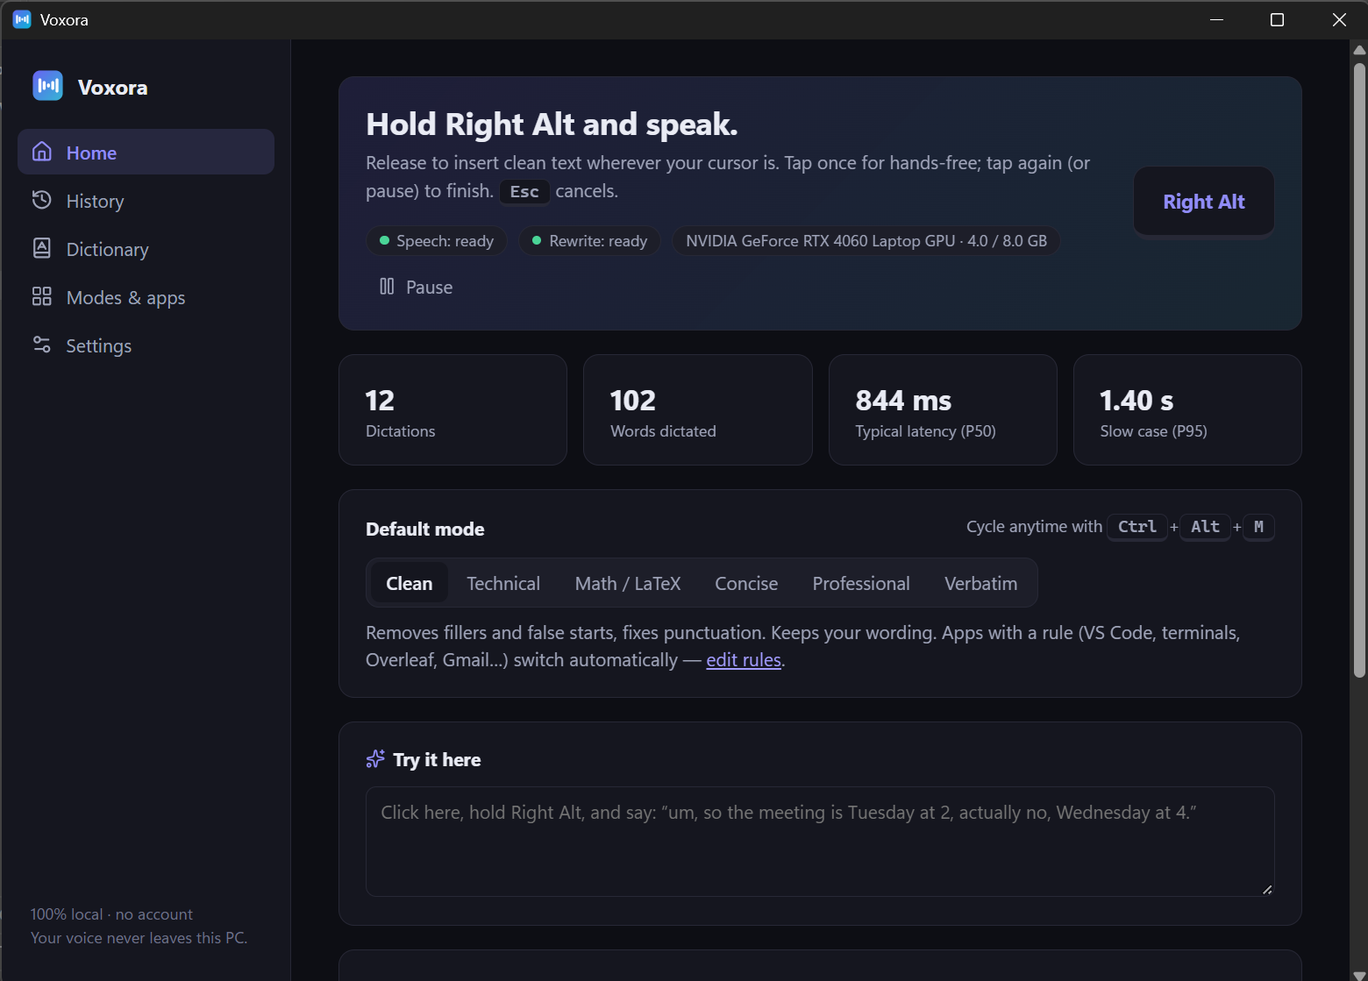
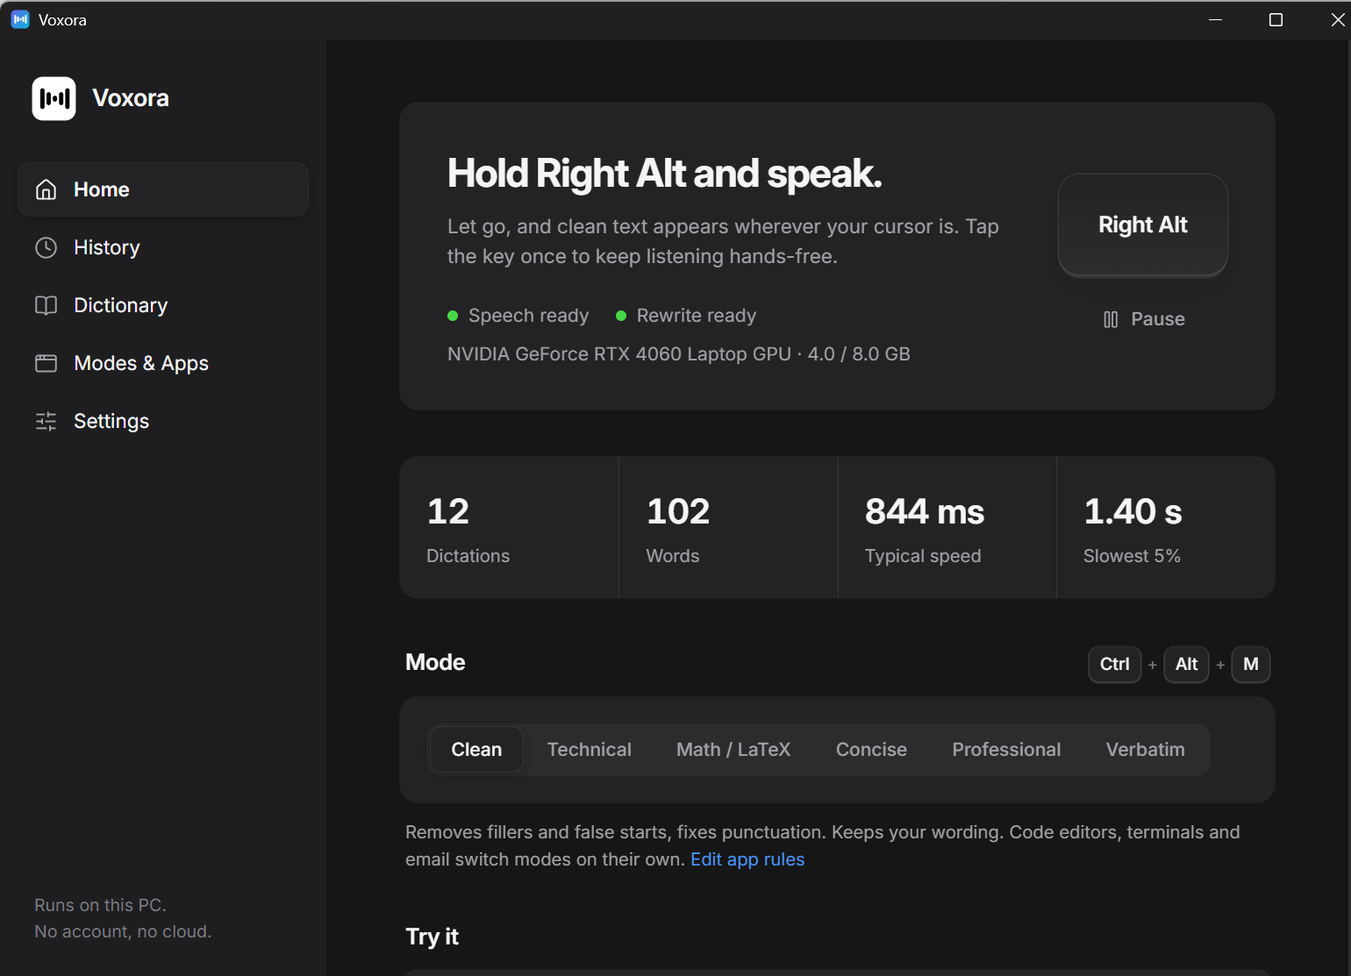
docs: v0.2 README, macOS install and status, golden benchmarks; release workflow
- README: macOS (beta) install with Gatekeeper and Accessibility steps,
  platform shortcuts, golden-set results, honest verified/unverified split
- ARCHITECTURE platform table, DECISIONS D12-D13, macOS troubleshooting
- Release workflow builds Windows and macOS installers into a draft release
- New screenshots and social preview from the real app
- Bundle id dev.voxora.desktop; version 0.2.0

diff --git a/README.md b/README.md
@@ -1,22 +1,22 @@
 <p align="center">
-  <img src="assets/logo.svg" width="88" alt="Voxora logo: five white bars forming a V-shaped waveform on an indigo-to-cyan square">
+  <img src="assets/logo.svg" width="96" alt="Voxora logo: five black bars forming a symmetric waveform on a white rounded square">
 </p>
 
 <h1 align="center">Voxora</h1>
 
 <p align="center">
-  Hold a key, speak, release: clean text appears in any Windows app.<br>
-  Speech recognition and AI cleanup run on your own GPU. No account, no subscription, no audio leaves the PC.
+  Hold a key, speak, let go. Clean text appears in whatever app you're typing in.<br>
+  Speech recognition and AI cleanup run on your own computer. No account, no subscription, no audio leaves your machine.
 </p>
 
 <p align="center">
   <a href="https://github.com/ParshvCrafts/Voxora/actions/workflows/ci.yml"><img src="https://github.com/ParshvCrafts/Voxora/actions/workflows/ci.yml/badge.svg" alt="CI status"></a>
   <a href="LICENSE"><img src="https://img.shields.io/badge/license-MIT-blue" alt="MIT license"></a>
-  <img src="https://img.shields.io/badge/platform-Windows%2010%2F11-0078D4" alt="Windows 10/11">
+  <img src="https://img.shields.io/badge/platform-Windows%20%7C%20macOS%20beta-555" alt="Windows and macOS (beta)">
 </p>
 
 <p align="center">
-  <img src="docs/assets/overlay.png" width="420" alt="The Voxora pill at the bottom of the screen while listening: a pulsing dot, a live 14-bar audio meter, and a TECH mode badge">
+  <img src="docs/assets/overlay.png" width="420" alt="The Voxora HUD while listening: a black capsule with a red recording dot, white live audio bars, and the active mode, Technical">
 </p>
 
 Voxora is a local-first alternative to cloud dictation tools like Wispr Flow. It is built for
@@ -27,137 +27,175 @@ into `\sum_{i=1}^{n} x_i`.
 
 ## What it does
 
-- **One key, two gestures.** Hold Right Alt to talk; tap it for hands-free mode, which stops
-  when you pause. `Esc` cancels. The floating pill never steals focus from your editor.
-- **Context-aware modes.** Clean, Technical, Math/LaTeX, Concise, Professional, Verbatim. The
-  mode follows the foreground app (VS Code/Cursor → Technical, Overleaf → Math, Gmail →
-  Professional) using only the process name and window title.
-- **Spoken math and code.** A deterministic parser renders math as Unicode (`θᵀx + b = 0`) or
-  LaTeX (`\frac{df}{dx}`, `P(Y = 1 \mid X)`); "camel case get user by id" becomes `getUserById`.
-- **AI cleanup that cannot change your facts.** A local LLM removes fillers and resolves
-  self-corrections, then an invariant guard rejects any rewrite that adds or drops a number
-  or identifier, introduces a name you never said, or answers your question instead of
-  transcribing it. Rejected rewrites
-  fall back to the rule-based text.
-- **Nothing gets lost.** Every transcript is committed to SQLite before it is pasted. Your
-  clipboard (text or image) is restored after the paste. Admin windows that block synthetic
-  input get the text on the clipboard with a notice instead of a silent failure.
-- **Personal dictionary.** Terms bias Whisper toward your spellings and fix casing afterwards
-  ("lang graph" → LangGraph); replacements double as snippets.
+- **One key, two gestures.** Hold Right Alt (Right Option on a Mac) to talk; tap it to keep
+  listening hands-free until you pause. `Esc` cancels. The floating HUD never takes focus away
+  from the app you're typing in.
+- **Modes that follow the app.** Clean, Technical, Math/LaTeX, Concise, Professional,
+  Verbatim. VS Code and Cursor switch to Technical, Overleaf to Math, Mail and Outlook to
+  Professional, using only the app's name (and, on Windows, its window title).
+- **Spoken code, paths and math.** "dash dash maxfail equals 1" becomes `--maxfail=1`;
+  "https colon slash slash api dot example dot com" becomes a URL; "O of V plus E log V" becomes
+  `O(V + E log V)`; spoken math renders as Unicode (`θᵀx + b ≥ 0`) or LaTeX
+  (`-\frac{1}{N} \sum_{i=1}^{N} y_i`).
+- **Spoken editing.** "scratch that", "quote ... end quote", "new line", a final "period", and
+  "first, ... second, ..." turning into a numbered list.
+- **AI cleanup that can't change your facts.** A local LLM removes fillers and resolves
+  self-corrections, then an invariant guard rejects any rewrite that adds or drops a number or
+  identifier, introduces a name you never said, or answers your question instead of
+  transcribing it. Rejected rewrites fall back to the rule-based text.
+- **Nothing gets lost.** Every transcript is saved to SQLite before it is pasted. Your clipboard
+  (text or image) comes back after the paste. If the target blocks synthetic keystrokes (admin
+  windows on Windows, Secure Keyboard Entry on macOS), the text waits on the clipboard and the
+  HUD tells you.
+- **Your vocabulary.** Words you add steer Whisper toward your spelling and fix casing afterwards
+  ("lang graph" becomes LangGraph); phrase shortcuts expand into longer text.
 
 <p align="center">
-  <img src="docs/assets/home.png" width="760" alt="Voxora settings window, Home page: hotkey hint, engine status pills showing Speech ready and Rewrite ready with the GPU name, usage stats, and the default-mode selector">
+  <img src="docs/assets/home.png" width="760" alt="Voxora's main window in dark mode: a sidebar with Home, History, Dictionary, Modes and Apps, Settings; the Home page reads Hold Right Alt and speak, shows Speech ready and Rewrite ready with the GPU and its memory, usage stats, and a mode selector">
 </p>
 
 ## How it works
 
 ```mermaid
 flowchart LR
-  K[Key hook] --> M[Mic + VAD]
-  M --> W[whisper-server<br/>large-v3-turbo, CUDA]
+  K[Key listener] --> M[Mic + VAD]
+  M --> W[whisper-server<br/>large-v3-turbo<br/>CUDA or Metal]
   W --> S[(SQLite<br/>saved first)]
-  S --> N[Rules: fillers, dictionary,<br/>math, identifiers]
+  S --> N[Rules: fillers, dictionary,<br/>paths, math, identifiers]
   N --> L[llama-server<br/>Qwen3.5-4B]
   L --> G{Invariant guard}
   G -- pass --> P[Paste + restore clipboard]
   G -- fail / timeout --> P2[Paste rule-based text]
 ```
 
-- **Rust + Tauri 2** shell (4.5 MB installer, ~55 MB RAM) with a Win32 low-level keyboard hook,
-  WASAPI capture via `cpal`, the pure-Rust [earshot](https://crates.io/crates/earshot) VAD for
-  live endpointing, and clipboard/`SendInput` injection.
-- **Inference runs in official prebuilt CUDA servers** from whisper.cpp and llama.cpp, started
-  and supervised by Voxora on `127.0.0.1`. No CUDA toolkit needed to build, a crash in inference
-  cannot take down the hotkey process, and any OpenAI-compatible server (Ollama, LM Studio) can
-  replace the built-in rewrite engine.
-- **The LLM is optional by design.** Short, fluent utterances skip it (the rules already produce
-  final text in under 1 ms); a timeout or guard violation also falls back to the rules.
-- **Measured, not assumed.** Every default (model choice, vocabulary prompt, fast path) has a
-  benchmark behind it in the decision log, including ideas that were tried and dropped.
+- **Rust + Tauri 2.** One engine, with four small OS modules swapped per platform: keyboard
+  listener (Win32 low-level hook / macOS CGEventTap), paste (SendInput / CGEvent with
+  NSPasteboard), foreground app, and the non-activating HUD window. Audio goes through `cpal`
+  (WASAPI / CoreAudio), with the pure-Rust [earshot](https://crates.io/crates/earshot) VAD.
+- **Inference runs in whisper.cpp and llama.cpp servers** that Voxora starts and supervises on
+  `127.0.0.1`. Windows uses the official CUDA builds. On macOS, llama.cpp's official Metal build
+  is downloaded, and `whisper-server` (which has no official macOS binary) is compiled from a
+  pinned tag in CI and shipped inside `Voxora.app`. Any OpenAI-compatible server (Ollama, LM
+  Studio) can replace the built-in rewrite engine.
+- **The LLM is optional by design.** Short, fluent speech skips it (the rules finish in under a
+  millisecond), and a timeout or guard rejection also falls back to the rules. Decoding is greedy,
+  so the same words give the same text every time.
+- **Measured, not assumed.** Every default has a benchmark behind it in the
+  [decision log](docs/DECISIONS.md), including ideas that were tried and dropped.
 
-Deeper dive: [docs/ARCHITECTURE.md](docs/ARCHITECTURE.md) · decision log with evidence:
-[docs/DECISIONS.md](docs/DECISIONS.md).
+More: [docs/ARCHITECTURE.md](docs/ARCHITECTURE.md).
 
 ## Results
 
 Measured on a Lenovo Legion 5i (i9-14900HX, RTX 4060 Laptop 8 GB, Windows 11). Full tables and
-how to reproduce: [docs/BENCHMARKS.md](docs/BENCHMARKS.md).
+how to reproduce them: [docs/BENCHMARKS.md](docs/BENCHMARKS.md).
 
 | | Result |
 |---|---|
-| Quality benchmark (30 cases: fillers, self-corrections, ML jargon, code, math, prompt injection; synthesized speech) | **29/30 pass** |
-| Speech recognition, warm (whisper large-v3-turbo Q8) | P50 166 ms, P95 245 ms |
-| AI rewrite when used (Qwen3.5-4B Q4_K_M) | P50 357 ms, P95 929 ms |
-| End-to-end, key release → text in app (real app, release build, 7 dictations) | 0.45–0.77 s rule-based, 0.85–1.24 s with AI rewrite |
-| 5 s of silence | nothing inserted |
+| Core benchmark (30 cases: fillers, self-corrections, ML jargon, code, math, prompt injection), synthesized speech | **29/30 pass** |
+| Golden set, 20 hard edge cases (URLs, paths, nested LaTeX, quotes, lists, Big-O, accented names, noise), Voxora's pipeline on reference text | **19/19 key facts, 16/19 exact** |
+| Same golden set through Whisper with robotic Windows TTS voices | 11/20 key facts (misses are mishearings like "Reedy's cache" for Redis) |
+| Speech recognition, warm (whisper large-v3-turbo Q8) | P50 ~200 ms, P95 ~260 ms |
+| AI rewrite when used (Qwen3.5-4B Q4_K_M) | P50 ~360 ms, P95 ~840 ms |
+| End-to-end, key release to text in the app (real app, release build) | 0.45 to 0.77 s rule-based, 0.85 to 1.24 s with AI rewrite |
+| Silence or keyboard noise only | nothing inserted |
 | GPU memory, both models loaded | 4.3 GB of 8 GB |
 
-## Quick start
+## Install
+
+### Windows 10/11
 
 1. Download `Voxora_x.y.z_x64-setup.exe` from [Releases](https://github.com/ParshvCrafts/Voxora/releases) and run it.
+   SmartScreen may warn because the installer is unsigned: click **More info**, then **Run anyway**.
 2. On first launch click **Download and start**. Voxora fetches pinned, SHA-256-verified builds
-   of whisper.cpp, llama.cpp and the models (~4.7 GB download with an NVIDIA GPU).
-3. Click into any text field, hold **Right Alt**, speak, release.
+   of whisper.cpp, llama.cpp and the models (about 4.7 GB with an NVIDIA GPU).
+3. Click into any text field, hold **Right Alt**, speak, let go.
 
-Requirements: Windows 10/11 x64. NVIDIA GPU with about 5 GB of free VRAM recommended (both models use 4.3 GB); without one Voxora
-uses CPU builds (slower) and you can turn off the AI rewrite for instant rule-based cleanup.
+An NVIDIA GPU with about 5 GB free VRAM is recommended. Without one, Voxora uses CPU builds and a
+smaller rewrite model, and you can turn the AI rewrite off for instant rule-based cleanup.
 
-| Shortcut | Action |
-|---|---|
-| Hold Right Alt | Push-to-talk |
-| Tap Right Alt | Hands-free on; tap again or pause to finish |
-| Esc (while recording) | Cancel |
-| Ctrl+Alt+M | Cycle mode |
-| Ctrl+Alt+V | Paste last dictation again |
+### macOS 13.3+ on Apple silicon (beta)
+
+1. Download `Voxora_x.y.z_aarch64.dmg` from [Releases](https://github.com/ParshvCrafts/Voxora/releases)
+   and drag Voxora to Applications.
+2. Open it. macOS will refuse at first because the app is not notarized (that needs a paid Apple
+   account). Go to **System Settings > Privacy & Security**, scroll down, and click
+   **Open Anyway**. (Or run `xattr -dr com.apple.quarantine /Applications/Voxora.app` once.)
+3. Voxora lives in the menu bar. The Home page shows **One permission to go**: click
+   **Open System Settings** and turn Voxora on under **Accessibility**. That single permission
+   lets it hear the dictation key and press Command+V for you. Allow the microphone when asked.
+4. Click **Download and start** (about 3.6 GB), then hold **Right Option**, speak, let go.
+
+### Shortcuts
+
+| Windows | Mac | Action |
+|---|---|---|
+| Hold Right Alt | Hold Right Option | Dictate while held |
+| Tap Right Alt | Tap Right Option | Hands-free; tap again or pause to finish |
+| Esc | Esc | Cancel while listening |
+| Ctrl+Alt+M | Control+Option+M | Switch mode |
+| Ctrl+Alt+V | Control+Option+V | Paste the last dictation again |
+| Ctrl+Z | Command+Z | Undo an insertion (in the app you dictated into) |
 
 ### Build from source
 
-```powershell
-# Rust (MSVC), Node 22+, pnpm
+```bash
+# Rust, Node 22+, pnpm
 pnpm install
 pnpm tauri dev          # run
-pnpm tauri build        # NSIS + MSI installers in target/release/bundle
-cargo test --workspace  # unit tests
+pnpm tauri build        # Windows: NSIS + MSI. macOS: .app + .dmg (see the macos job in ci.yml for whisper-server)
+cargo test --workspace
 ```
 
-The models and runtimes are not in the repo; the app downloads them on first run into
-`%LOCALAPPDATA%\Voxora`.
+Models and runtimes are not in the repo; the app downloads them on first run into
+`%LOCALAPPDATA%\Voxora` (Windows) or `~/Library/Application Support/Voxora` (macOS).
 
 ## Status
 
-Verified on the hardware above:
-- 71 unit tests (text pipeline, math parser, guard, storage, gesture timing, audio resampling,
-  WAV I/O, zip safety) plus a live-clipboard round-trip test.
-- `scripts/e2e.ps1` drives the real app (run against the release build) through a virtual audio cable: push-to-talk,
-  hands-free auto-stop, Esc cancel, silence rejection, self-correction, spoken math, and
-  clipboard restoration all pass.
-- Kill-on-close job object: force-killing Voxora leaves no inference server running.
+Verified:
+- 79 unit tests on Windows, and the same core suite plus macOS key-map tests on macOS (text
+  pipeline, golden-case rules, math parser, guard, storage, gesture timing, resampling, archive
+  safety), plus a live clipboard round-trip test on Windows.
+- Windows, on the hardware above: `scripts/e2e.ps1` drives the real app through a virtual audio
+  cable (push-to-talk, hands-free auto-stop, Esc cancel, silence rejection, self-correction,
+  spoken math, clipboard restore), last run on v0.1; v0.2 was re-checked with unit tests, both
+  benchmarks and the real app's screenshots. A force-killed Voxora leaves no inference server
+  running.
+- macOS, on GitHub's Apple silicon runners for every push: clippy and tests on the macOS code,
+  `.app` and `.dmg` bundling, the bundled whisper-server transcribing a spoken sentence
+  correctly, the pinned llama.cpp runtime passing its checksum and starting, and the app
+  launching and installing its keyboard listener.
 
 Not yet verified:
-- Elevated (admin) target windows were handled by design and code review, not by an automated test.
-- Benchmarks use synthesized voices (Windows SAPI), which are cleaner than a real microphone;
-  treat the WER as a lower bound.
-- Only tested on one machine; AMD/Intel GPUs fall back to CPU builds.
-- Installer is unsigned, so SmartScreen will warn on first run.
+- **macOS on a real Mac.** No Mac was available while building this. Holding the key, the HUD,
+  pasting and clipboard restore follow Apple's documented APIs, but nobody has used them by hand
+  yet. If you try it, please [open an issue](https://github.com/ParshvCrafts/Voxora/issues)
+  with what worked.
+- Elevated (admin) windows on Windows are handled by design and code review, not by an
+  automated test.
+- Benchmarks use synthesized voices, which are cleaner and stranger than a real microphone.
+- Tested on one Windows machine; AMD and Intel GPUs fall back to CPU builds.
 
 ## Project layout
 
 ```
 crates/voxora-core   text pipeline, math parser, guard, storage, engine clients, bench_eval
-src-tauri            Windows app: hook, audio, injection, orchestrator, tray
-src                  React UI: settings/history window and the overlay pill
-bench                benchmark cases and results
-scripts              benchmark audio generation, end-to-end test
-docs                 architecture, decisions, benchmarks, troubleshooting, original blueprint
+src-tauri            the app: audio, orchestrator, tray, IPC; Windows modules in src/, macOS in src/mac/
+src                  React UI: main window and the HUD
+bench                benchmark cases (core + golden) and results
+scripts              benchmark audio, end-to-end test, README image capture
+docs                 architecture, decisions, benchmarks, troubleshooting, research, original blueprint
 ```
 
 Problems? See [docs/TROUBLESHOOTING.md](docs/TROUBLESHOOTING.md).
 
 ## License
 
-MIT © Parshv Patel. Bundled at runtime (downloaded, not redistributed here):
+MIT © Parshv Patel. Downloaded at runtime, not redistributed here:
 [whisper.cpp](https://github.com/ggml-org/whisper.cpp) and
-[llama.cpp](https://github.com/ggml-org/llama.cpp) (MIT),
+[llama.cpp](https://github.com/ggml-org/llama.cpp) (MIT; the macOS app bundles a whisper-server
+built from whisper.cpp source),
 [Whisper large-v3-turbo](https://huggingface.co/openai/whisper-large-v3-turbo) (MIT),
 [Qwen3.5](https://huggingface.co/Qwen/Qwen3.5-4B) (Apache-2.0),
-[Silero VAD](https://github.com/snakers4/silero-vad) (MIT).
+[Silero VAD](https://github.com/snakers4/silero-vad) (MIT),
+[Inter](https://rsms.me/inter/) (OFL).

diff --git a/docs/ARCHITECTURE.md b/docs/ARCHITECTURE.md
@@ -6,10 +6,10 @@ deterministic text pipeline around them. Decisions and their evidence live in
 
 ```mermaid
 flowchart LR
-  K[Keyboard hook<br/>WH_KEYBOARD_LL] --> G[Gesture state machine<br/>hold = PTT, tap = hands-free]
-  G --> A[Mic capture<br/>cpal / WASAPI]
+  K[Key listener<br/>WH_KEYBOARD_LL / CGEventTap] --> G[Gesture state machine<br/>hold = PTT, tap = hands-free]
+  G --> A[Mic capture<br/>cpal: WASAPI / CoreAudio]
   A -- 16 kHz frames --> V[earshot VAD<br/>level meter, auto-stop]
-  A -- full clip, FFT resample --> W[whisper-server<br/>large-v3-turbo, CUDA]
+  A -- full clip, FFT resample --> W[whisper-server<br/>large-v3-turbo, CUDA / Metal]
   W --> F[Hallucination filter]
   F --> DB[(SQLite WAL<br/>raw text saved)]
   DB --> N[Stage 1: normalizer<br/>fillers, dictionary, math, identifiers]
@@ -26,8 +26,23 @@ flowchart LR
 | Path | Role | Platform |
 |---|---|---|
 | `crates/voxora-core` | Normalizer, spoken-math parser, invariant guard, ASR filter, prompts, pipeline, gesture state machine, app-context rules, settings, SQLite store, whisper/LLM clients, sidecar supervisor, verified downloader, `bench_eval` | Any (no Win32) |
-| `src-tauri` | Keyboard hook, mic capture + VAD, foreground-window + UIPI detection, clipboard injection, overlay window styles, job object, tray, IPC commands, orchestrator (`engine.rs`) | Windows |
-| `src/` | React UI: settings/history window and the overlay pill | WebView2 |
+| `src-tauri` | Mic capture + VAD, tray, IPC commands, orchestrator (`engine.rs`), plus four OS modules: `hotkey`, `inject`, `target`, `winutil` | Windows, macOS |
+| `src-tauri/src/mac/` | macOS versions of the four OS modules, selected with `#[cfg_attr(target_os = "macos", path = ...)]` | macOS |
+| `src/` | React UI: main window and the HUD | WebView2 / WKWebView |
+
+## Platforms
+
+| Concern | Windows | macOS |
+|---|---|---|
+| Dictation key | `WH_KEYBOARD_LL` hook; swallows the key | Listen-only `CGEventTap` (never blocks keys) |
+| Paste | Clipboard + `SendInput` Ctrl+V | `NSPasteboard` + `CGEvent` Command+V |
+| Clipboard history opt-out | `ExcludeClipboardContentFromMonitorProcessing` etc. | `org.nspasteboard.TransientType` etc. |
+| "Can't paste here" | Elevated target (UIPI) | Secure Keyboard Entry on |
+| Foreground app | Process name + window title | App name only (titles need Screen Recording) |
+| HUD | `WS_EX_NOACTIVATE`, click-through | `orderFrontRegardless`, ignores mouse, all Spaces |
+| Child servers | Kill-on-close job object | PID file, orphans stopped on next launch |
+| whisper-server | Official CUDA/CPU zip, downloaded | Built from source in CI, bundled in `Voxora.app` |
+| Permissions | None | Accessibility (key + paste), Microphone |
 
 ## Lifecycle (src-tauri/src/engine.rs)
 

diff --git a/docs/TROUBLESHOOTING.md b/docs/TROUBLESHOOTING.md
@@ -27,7 +27,7 @@ If transcription itself failed, tray → **Retry failed recording** re-runs the 
 |---|---|---|
 | "Voxora can't be opened because Apple cannot check it" | The app is ad-hoc signed, not notarized (notarization needs a paid Apple account). | Open it once, close the dialog, then System Settings > Privacy & Security > scroll down > **Open Anyway**. Or in Terminal: `xattr -dr com.apple.quarantine /Applications/Voxora.app` |
 | Banner "One permission to go", or the key does nothing | Voxora needs Accessibility to hear the dictation key and to press Command+V for you. | Click **Open System Settings** in the banner and turn Voxora on under Accessibility. The banner disappears within two seconds. |
-| Accessibility switch is on but the key still does nothing after an update | macOS ties the permission to the exact build, and each update is a new build. | In Accessibility, select Voxora, click the minus button, then add it again (or run `tccutil reset Accessibility dev.voxora.app`). |
+| Accessibility switch is on but the key still does nothing after an update | macOS ties the permission to the exact build, and each update is a new build. | In Accessibility, select Voxora, click the minus button, then add it again (or run `tccutil reset Accessibility dev.voxora.desktop`). |
 | Pill says "Secure input is on: press Command+V" | A password field, or a terminal with Secure Keyboard Entry enabled, blocks synthetic keystrokes. | Press Command+V yourself. In Terminal or iTerm2, turn off Secure Keyboard Entry in the app menu if you want automatic pasting. |
 | No sound from the mic | Microphone permission was denied on first use. | System Settings > Privacy & Security > Microphone > turn on Voxora. |
 | Esc or the dictation key also reaches the app | By design on macOS: Voxora only listens to the keyboard, it never blocks keys. | Nothing to fix. Right Option on its own types nothing. |

diff --git a/docs/DECISIONS.md b/docs/DECISIONS.md
@@ -82,3 +82,22 @@ between runs ("ship v2" vs "shipping v2"); temperature 0 made two consecutive ru
 with no quality loss on either benchmark (30/30 and 19/19). Spoken symbol joining is
 Technical-mode only and needs a strong joiner (slash, backslash, underscore, or a dot before a
 known extension/TLD), so prose like "the red dot" is never glued together.
+
+## D13: macOS port shape (2026-11-24)
+- Same engine, four swapped OS modules (`#[cfg_attr(path)]`), not a trait layer: each OS has
+  exactly one implementation, so a trait would add indirection with no second caller.
+- Listen-only `CGEventTap`, not an active tap: it cannot swallow the key, but an active tap
+  that loses Accessibility can freeze keyboard input system-wide (Apple forum reports). One
+  permission (Accessibility) covers listening and posting Command+V.
+- HUD via `orderFrontRegardless` + ignore-mouse on Tauri's NSWindow instead of the
+  `tauri-nspanel` plugin: no extra dependency; it never makes the window key. Revisit if a real
+  Mac shows focus being stolen.
+- whisper.cpp publishes no macOS server binary. CI builds `whisper-server` from tag b5907
+  (Metal, static, shaders embedded, links only system frameworks) and bundles it with
+  `externalBin`, so there is no third-party binary host to trust. llama.cpp's official
+  b12649 macOS arm64 build is pinned by SHA-256 (GitHub digest and an independent hash agreed).
+- Verified only on GitHub's macos-15 runners (owner has no Mac): clippy, tests, bundling, a
+  spoken sentence transcribed correctly by the bundled server, llama runtime start, and app
+  launch with the event tap installed. Labelled beta until someone confirms by hand.
+- Bundle identifier changed from `dev.voxora.app` to `dev.voxora.desktop` (an `.app` suffix
+  clashes with macOS bundles); safe because no installer had been published.

diff --git a/CLAUDE.md b/CLAUDE.md
@@ -1,10 +1,12 @@
 # Voxora: agent notes
 
-Tier 2 project (public, not a hosted service). Local-first Windows dictation app.
+Tier 2 project (public, not a hosted service). Local-first dictation app for Windows and macOS (beta).
 
 - Read `docs/ARCHITECTURE.md` first; decisions + evidence in `docs/DECISIONS.md` (append, don't rewrite).
 - `crates/voxora-core` must stay free of Win32/Tauri deps; all text logic + tests live there.
 - Gate: `cargo fmt --all --check && cargo clippy --workspace --all-targets -- -D warnings && cargo test --workspace && pnpm build`.
 - Real-hardware checks: `bench_eval` (see `docs/BENCHMARKS.md`) and `scripts/e2e.ps1` (needs VB-Audio Virtual Cable; the script aborts unless its own window has focus; never weaken that guard, the app pastes into whatever is focused).
+- OS code lives in four modules (`hotkey`, `inject`, `target`, `winutil`); macOS copies are in `src-tauri/src/mac/` with the same API. macOS cannot be compiled on Windows: the `macos` CI job is the check (it also smoke-tests real binaries).
+- UI copy and docs: no em dashes (owner rule, D11).
 - Data dir: `%LOCALAPPDATA%\Voxora` (models, runtime, logs, voxora.db, settings.json).
 - Pinned model/runtime URLs + SHA-256 live only in `crates/voxora-core/src/engines/download.rs`.
